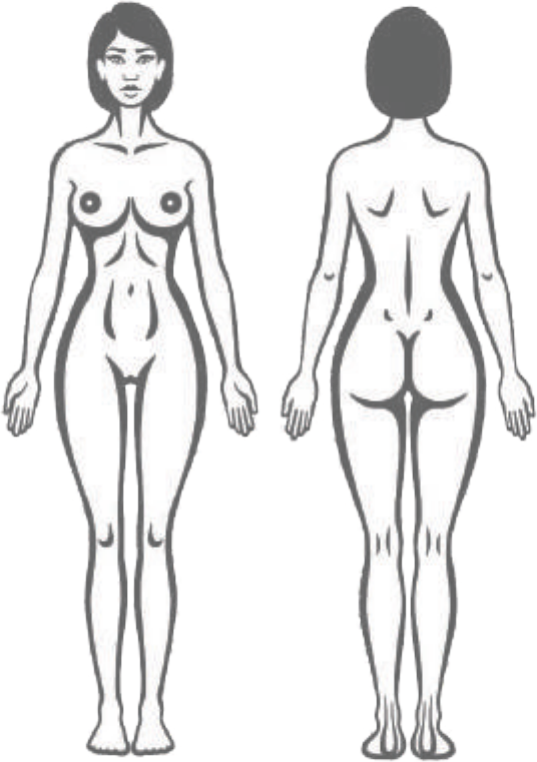
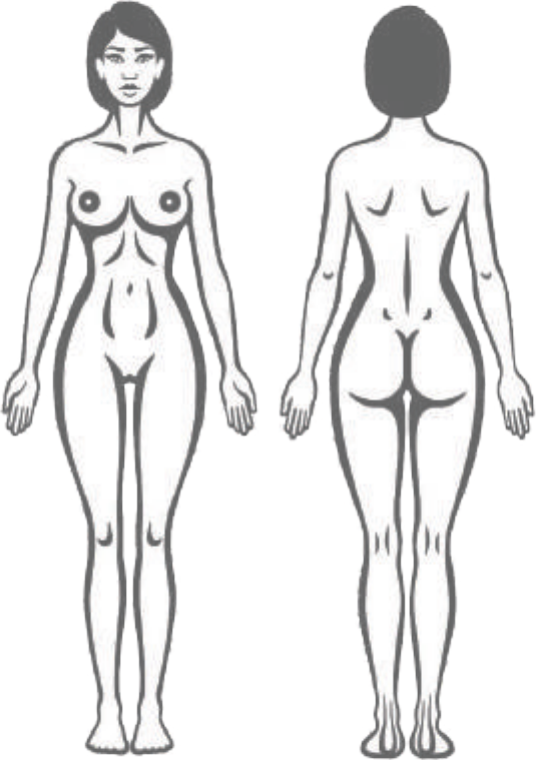
fix(PAS): sexo alineado con edad y siluetas sin rebaba
SEXO
Se alinea con Edad —etiqueta arriba y contenido debajo, no a media altura— y
aprovecha el hueco de la derecha: el bloque pasa de 22 a 30 mm, con H y M
centradas, separadas 5 mm y en el mismo cuerpo que el resto de datos, en vez de
apretadas a la izquierda. Edad sube de 16 a 18 mm.

SILUETAS
Quedaba una rebaba entre las dos imagenes: al recortarlas del modelo, el borde
alcanzaba el arranque de la figura vecina. Se recortan con medio milimetro por
dentro y se vuelven a ajustar al dibujo.

diff --git a/src/components/partes/PasHoja.tsx b/src/components/partes/PasHoja.tsx
@@ -232,17 +232,20 @@ export default function PasHoja({
                         <div style={{ display: 'flex', gap: '2mm' }}>
                             <Campo etq="Nombre" valor={d.nombre} onChange={set('nombre')} editable={editable} />
                             <Campo etq="Apellidos" valor={d.apellidos} onChange={set('apellidos')} editable={editable} />
-                            <div style={{ width: '16mm' }}>
+                            <div style={{ width: '18mm' }}>
                                 <Campo etq="Edad" valor={d.edad} onChange={set('edad')} editable={editable} centrado />
                             </div>
-                            <div style={{ width: '22mm' }}>
-                                <label className="pas-etq">Sexo</label>
-                                <div style={{ display: 'flex', gap: '2mm', height: '4.6mm', alignItems: 'center' }}>
+                            {/* Sexo se alinea con Edad —etiqueta arriba, contenido abajo— y
+                                aprovecha el hueco de la derecha para separar y centrar H y M. */}
+                            <div style={{ width: '30mm' }}>
+                                <label className="pas-etq" style={{ textAlign: 'center' }}>Sexo</label>
+                                <div style={{ display: 'flex', justifyContent: 'center', gap: '5mm',
+                                              height: '3.4mm', alignItems: 'center' }}>
                                     {(['H', 'M'] as const).map(s => (
-                                        <span className="pas-opcion" key={s}>
+                                        <span className="pas-opcion" key={s} style={{ fontSize: '7.1pt', gap: '1.4mm' }}>
                                             <Casilla marcada={d.sexo === s} editable={editable}
                                                      onClick={() => onCampo?.('sexo', d.sexo === s ? '' : s)} />
-                                            {s}
+                                            <b>{s}</b>
                                         </span>
                                     ))}
                                 </div>
